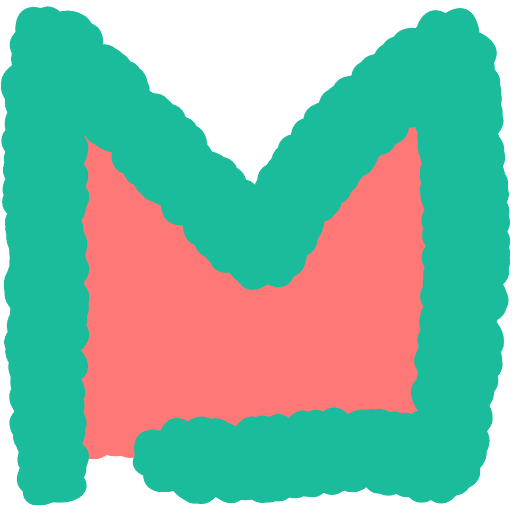
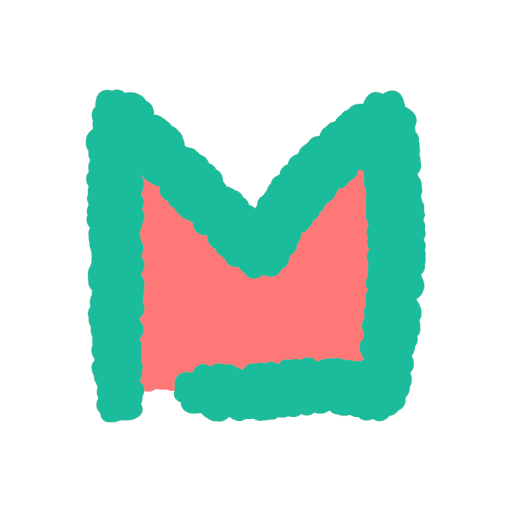
mod: favicon系画像最適化

diff --git a/nuxt.config.js b/nuxt.config.js
@@ -13,13 +13,13 @@ module.exports = {
       { hid: 'description', name: 'description', content: 'plz kamatte me!!!' },
       { hid: 'og:site_name', property: 'og:site_name', content: 'kamatte syndrome' },
       { hid: 'og:type', property: 'og:type', content: 'website' },
-      { hid: 'og:image', property: 'og:image', content: 'https://kamatte.me/apple-touch-icon.png' },
+      { hid: 'og:image', property: 'og:image', content: 'https://kamatte.me/icon.png' },
       { hid: 'og:locale', property: 'og:locale', content: 'ja_JP' },
       { hid: 'fb:app_id', property: 'fb:app_id', content: '159097111464111' },
       { hid: 'twitter:card', property: 'twitter:card', content: 'summary' },
     ],
     link: [
-      { rel: 'icon', type: 'image/png', href: '/favicon.png' },
+      { rel: 'icon', type: 'image/x-icon', href: '/favicon.ico' },
       { rel: 'apple-touch-icon', href: '/apple-touch-icon.png' },
       { rel: 'stylesheet', href: 'https://fonts.googleapis.com/css?family=Josefin+Sans:300,400' },
       { rel: 'stylesheet', href: 'https://use.fontawesome.com/releases/v5.0.8/css/all.css' },
